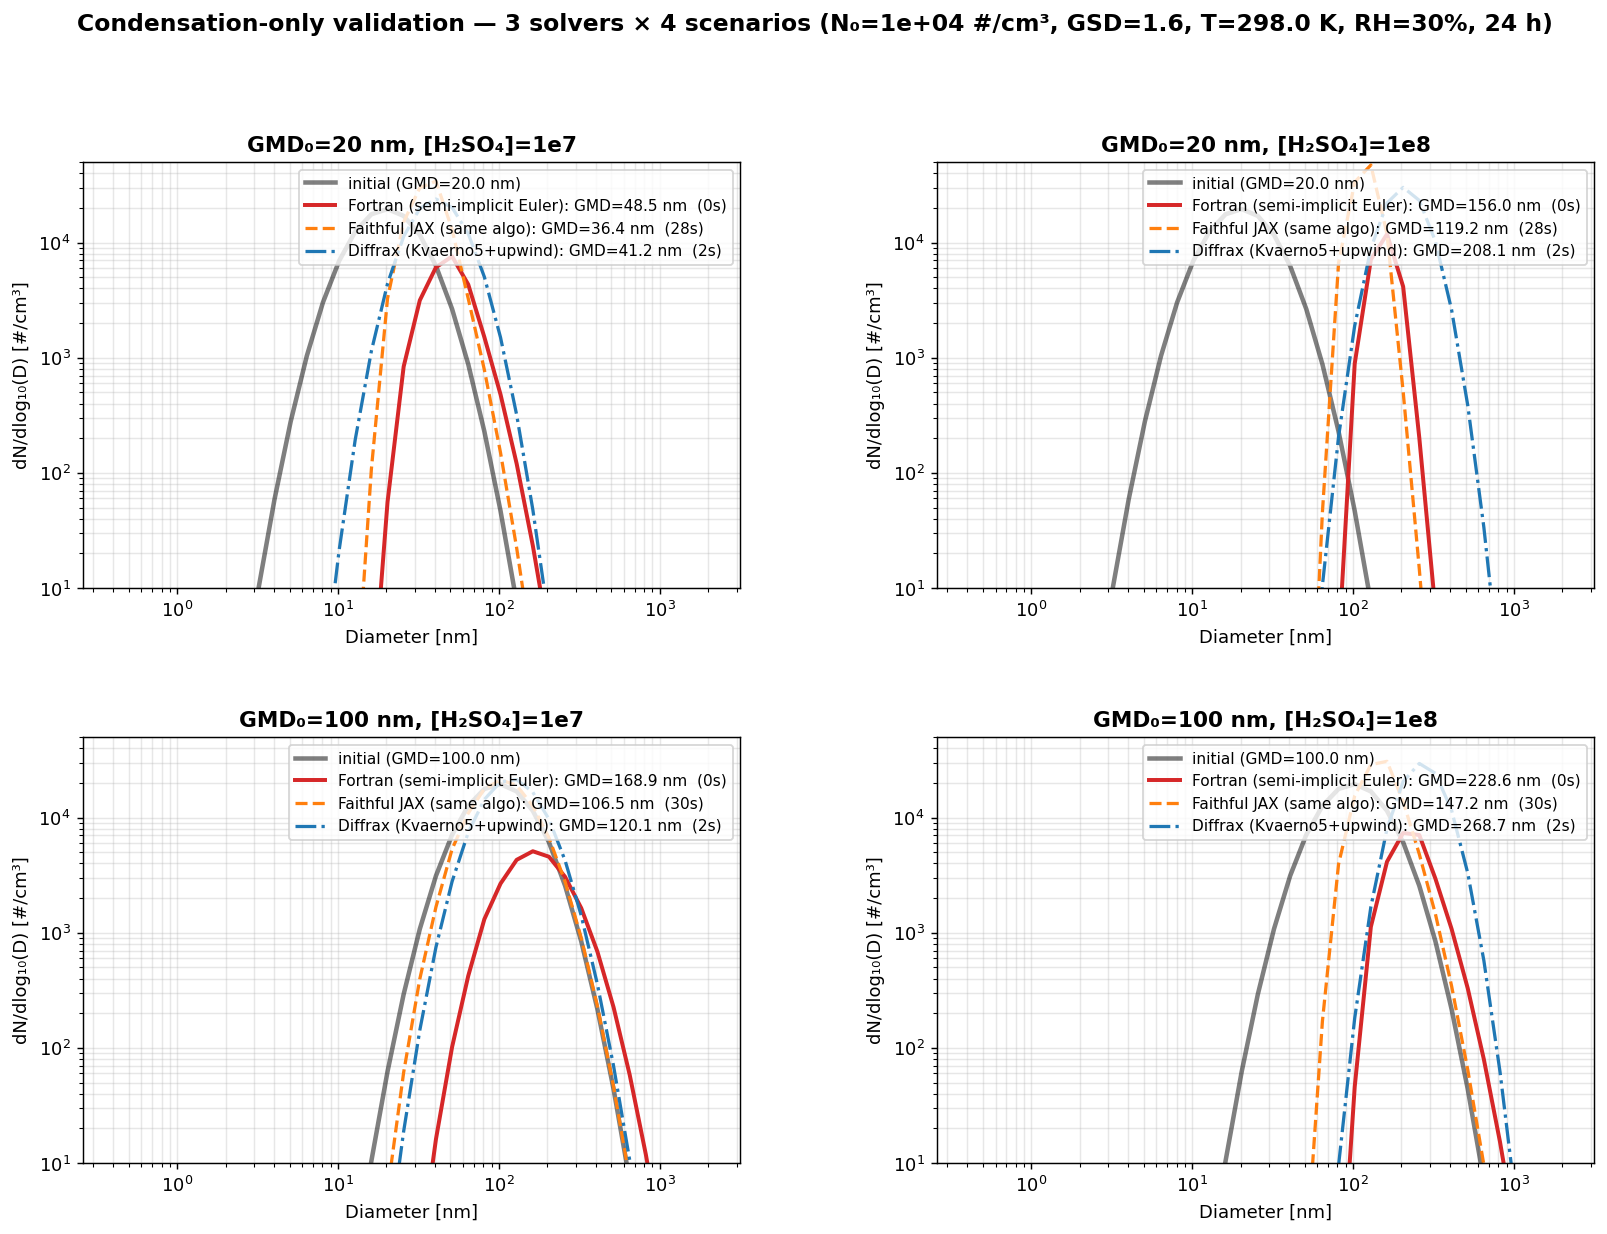
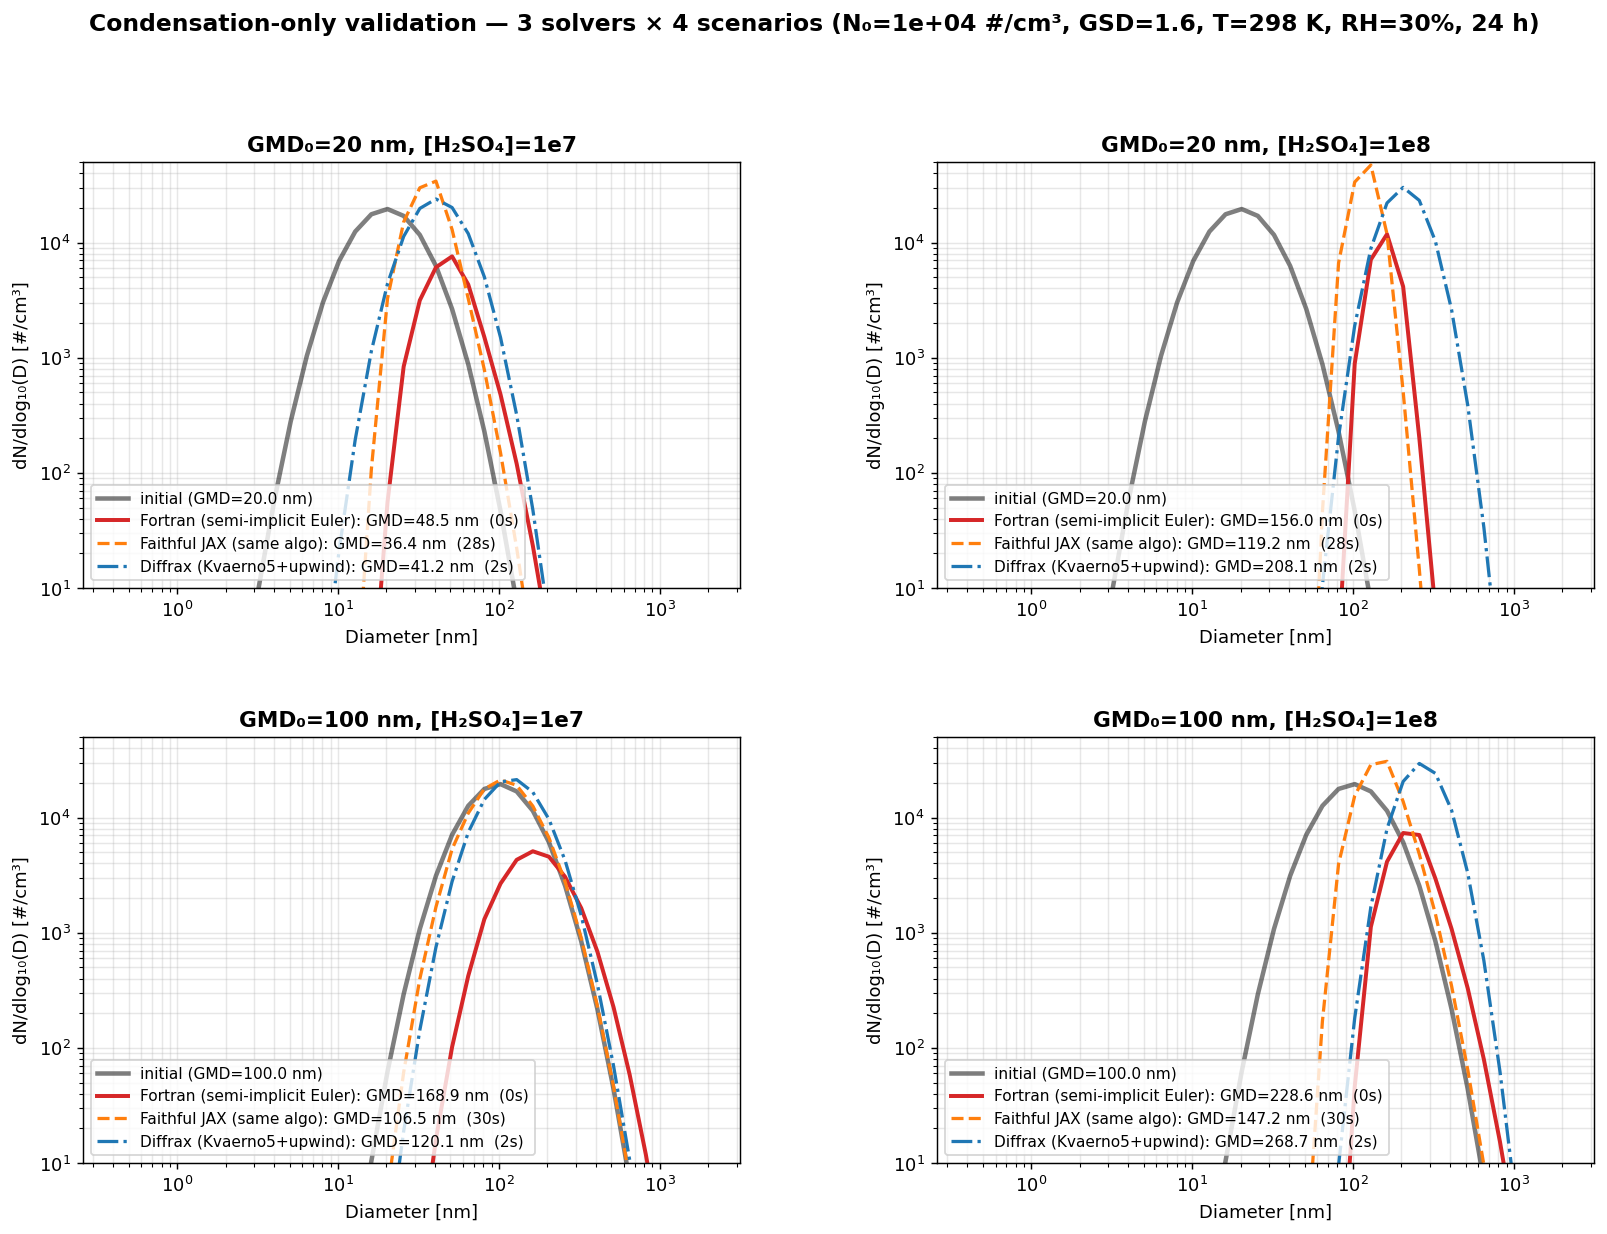
Move legends to lower left in condensation comparison plot

diff --git a/benchmark_final/scripts/26_condensation_3way.py b/benchmark_final/scripts/26_condensation_3way.py
@@ -421,7 +421,7 @@ def main():
         ax.set_ylabel("dN/dlog₁₀(D) [#/cm³]")
         ax.set_title(info["label"], fontweight="bold")
         ax.set_ylim(1e1, 5e4)
-        ax.legend(fontsize=8.5, loc="upper right")
+        ax.legend(fontsize=8.5, loc="lower left")
         ax.grid(alpha=0.3, which="both")
 
     fig.suptitle(
